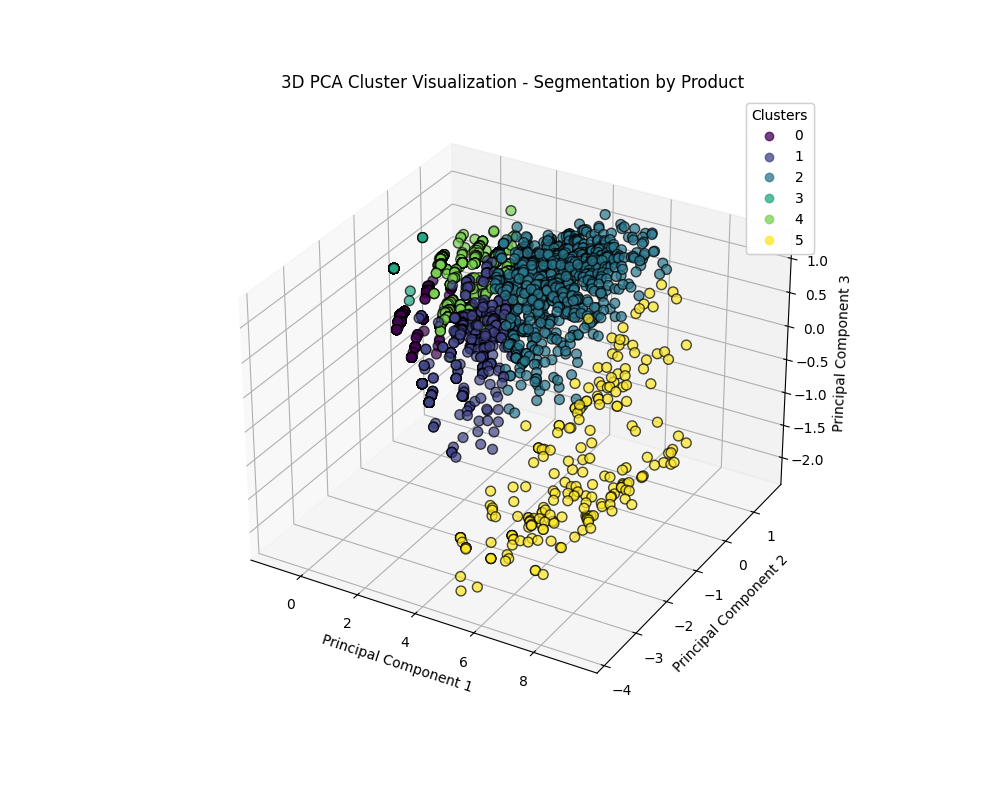
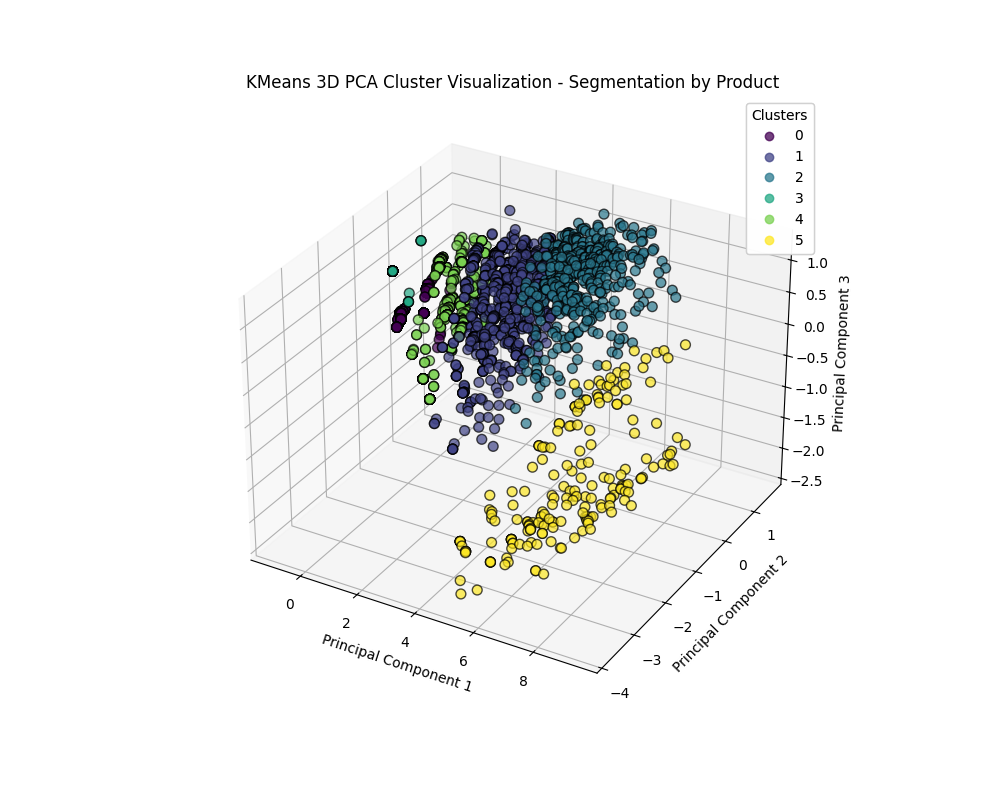
Exported the GMM model to the models folder

diff --git a/src/models/kmeans_clustering_test.py b/src/models/kmeans_clustering_test.py
@@ -1,15 +1,12 @@
 import pandas as pd
-import numpy as np
 from sklearn.model_selection import train_test_split
-from sklearn.feature_extraction.text import CountVectorizer
 from sklearn.cluster import KMeans
-from sklearn.preprocessing import RobustScaler, StandardScaler
+from sklearn.mixture import GaussianMixture
 from sklearn.metrics import silhouette_score
 from sklearn.decomposition import PCA
 from kmeans_clustering import (
     create_pipeline,
     save_pipeline,
-    load_pipeline,
     BinaryMatrixTransformer,
     LogTransformer,
 )
@@ -88,7 +85,7 @@ X = df_filtered.iloc[:, 7:]
 df_filtered["KMeans_Cluster"] = kmeans.fit_predict(X)
 
 score = silhouette_score(X_combined_prod, df_filtered["KMeans_Cluster"])
-print("Silhouette Score for Product Clustering:", score)
+print("Silhouette Score for KMeans Clustering:", score)
 
 # Be sure to drop the 'Product_Count' and 'Tags_Count' columns so they don't bias the model
 X.drop(columns=["Product_Count", "Tags_Count"], inplace=True)
@@ -107,41 +104,64 @@ X_pca_3d = pca_3d.fit_transform(X)
 print("Explained variance ratio (2D):", pca_2d.explained_variance_ratio_.sum())
 print("Explained variance ratio (3D):", pca_3d.explained_variance_ratio_.sum())
 
-# Clustering on 2D PCA results
+# KMeans Clustering on 2D PCA results
 clusters_2d = kmeans.fit_predict(X_pca_2d)
 score_2d = silhouette_score(X_pca_2d, clusters_2d)
-print("Silhouette Score for 2D PCA:", score_2d)
+print("Silhouette Score for KMeans 2D PCA:", score_2d)
 
-# Clustering on 3D PCA results
+# KMeans Clustering on 3D PCA results
 clusters_3d = kmeans.fit_predict(X_pca_3d)
 score_3d = silhouette_score(X_pca_3d, clusters_3d)
-print("Silhouette Score for 3D PCA:", score_3d)
+print("Silhouette Score for KMeans 3D PCA:", score_3d)
+
+
+# --------------------------------------------------------------
+# Repeat using the Gaussian Mixture Model (3D PCA only)
+# ------------------------------------------------------------
+
+gmm_3d = GaussianMixture(n_components=6, random_state=42)
+gmm_labels_3d = gmm_3d.fit_predict(X_pca_3d)
+
+gmm_silhouette_3d = silhouette_score(X_pca_3d, gmm_labels_3d)
+print("Silhouette Score for GMM Clustering with 3D PCA:", gmm_silhouette_3d)
 
 
 # --------------------------------------------------------------
 # Visualize PCA results
 # ------------------------------------------------------------
 
-# Plot 2D PCA
+# Plot 2D PCA for KMeans
 plotter.ClusterPlotter(
     X_pca=X_pca_2d,
     clusters=clusters_2d,
-    title="2D PCA Cluster Visualization - Segmentation by Product",
+    title="KMeans 2D PCA Cluster Visualization - Segmentation by Product",
     xlabel="Principal Component 1",
     ylabel="Principal Component 2",
     filename="../../reports/figures/kmeans-cluster-2d-pca.png",
     plot_type="2d",
 ).plot()
 
-# Plot 3D PCA
+# Plot 3D PCA for KMeans
 plotter.ClusterPlotter(
     X_pca=X_pca_3d,
     clusters=clusters_3d,
-    title="3D PCA Cluster Visualization - Segmentation by Product",
+    title="KMeans 3D PCA Cluster Visualization - Segmentation by Product",
     xlabel="Principal Component 1",
     ylabel="Principal Component 2",
     zlabel="Principal Component 3",
     filename="../../reports/figures/kmeans-cluster-3d-pca.png",
+    plot_type="3d",
+).plot()
+
+# Plot 3D PCA for GMM
+plotter.ClusterPlotter(
+    X_pca=X_pca_3d,
+    clusters=gmm_labels_3d,
+    title="GMM 3D PCA Cluster Visualization - Segmentation by Product",
+    xlabel="Principal Component 1",
+    ylabel="Principal Component 2",
+    zlabel="Principal Component 3",
+    filename="../../reports/figures/gmm-cluster-3d-pca.png",
     plot_type="3d",
 ).plot()
 
@@ -153,13 +173,25 @@ plotter.ClusterPlotter(
 df_filtered["KMeans_3D_PCA_Cluster"] = clusters_3d
 cluster_counts = df_filtered["KMeans_3D_PCA_Cluster"].value_counts().sort_index()
 
+df_filtered["GMM_3D_PCA_Cluster"] = gmm_labels_3d
+gmm_cluster_counts = df_filtered["GMM_3D_PCA_Cluster"].value_counts().sort_index()
+
 plotter.BarPlotter(
     data=cluster_counts,
-    title="Number of Customers in Each Cluster",
+    title="Number of Customers in Each KMeans Cluster",
     xlabel="Cluster Number",
     ylabel="Number of Customers",
-    filename="../../reports/figures/num-customers-by-segment.png",
+    filename="../../reports/figures/kmeans-num-customers-by-segment.png",
     xticks=cluster_counts.index,
+).plot()
+
+plotter.BarPlotter(
+    data=gmm_cluster_counts,
+    title="Number of Customers in Each GMM Cluster",
+    xlabel="Cluster Number",
+    ylabel="Number of Customers",
+    filename="../../reports/figures/gmm-num-customers-by-segment.png",
+    xticks=gmm_cluster_counts.index,
 ).plot()
 
 # --------------------------------------------------------------
@@ -167,10 +199,15 @@ plotter.BarPlotter(
 # --------------------------------------------------------------
 
 new_df = df.merge(
-    df_filtered[["ID", "KMeans_Cluster", "KMeans_3D_PCA_Cluster"]], on="ID", how="left"
+    df_filtered[
+        ["ID", "KMeans_Cluster", "KMeans_3D_PCA_Cluster", "GMM_3D_PCA_Cluster"]
+    ],
+    on="ID",
+    how="left",
 )
 new_df.to_csv("../../data/processed/DDU - Segmented Kajabi Data.csv")
 
+new_df.describe()
 
 # --------------------------------------------------------------
 # Save the KMeans models
@@ -179,6 +216,7 @@ new_df.to_csv("../../data/processed/DDU - Segmented Kajabi Data.csv")
 joblib.dump(kmeans, "../../models/kmeans_model.pkl")
 joblib.dump(pca_2d, "../../models/pca_2d.pkl")
 joblib.dump(pca_3d, "../../models/pca_3d.pkl")
+joblib.dump(gmm_3d, "../../models/gmm_3d.pkl")
 
 
 # --------------------------------------------------------------

diff --git a/app.py b/app.py
@@ -7,7 +7,7 @@ src_dir = os.path.join(project_root, "src")
 sys.path.insert(0, project_root)
 sys.path.insert(0, src_dir)
 
-from src.models.kmeans_clustering import create_pipeline, save_pipeline, load_pipeline
+from src.models.kmeans_clustering import load_pipeline
 from flask import Flask, render_template, request, redirect, send_file
 import joblib
 import pandas as pd
@@ -26,8 +26,9 @@ matplotlib.use("Agg")
 app = Flask(__name__)
 app.static_folder = "static"
 
-# Load the model
+# Load the models
 kmeans_model = joblib.load("models/kmeans_model.pkl")
+gmm_model = joblib.load("models/gmm_3d.pkl")
 
 # Load the pipeline
 pipeline = load_pipeline("models/pca_pipeline.pkl")
@@ -62,7 +63,7 @@ def upload_file():
         score_3d = silhouette_score(X_pca_3d, clusters_3d)
 
         # Add the cluster labels to the dataframe
-        df_pca = pd.DataFrame(X_pca_3d, columns=["PC1", "PC2", "PC3"])
+        df_pca = pd.DataFrame(X_pca_3d, columns=["PCA_1", "PCA_2", "PCA_3"])
         df_pca["Cluster"] = clusters_3d
 
         # Perform the left join

diff --git a/src/models/kmeans_clustering.py b/src/models/kmeans_clustering.py
@@ -1,8 +1,7 @@
 import pandas as pd
 import numpy as np
 from sklearn.feature_extraction.text import CountVectorizer
-from sklearn.cluster import KMeans
-from sklearn.preprocessing import RobustScaler, StandardScaler
+from sklearn.preprocessing import RobustScaler
 from sklearn.metrics import silhouette_score
 from sklearn.decomposition import PCA
 from sklearn.pipeline import Pipeline
